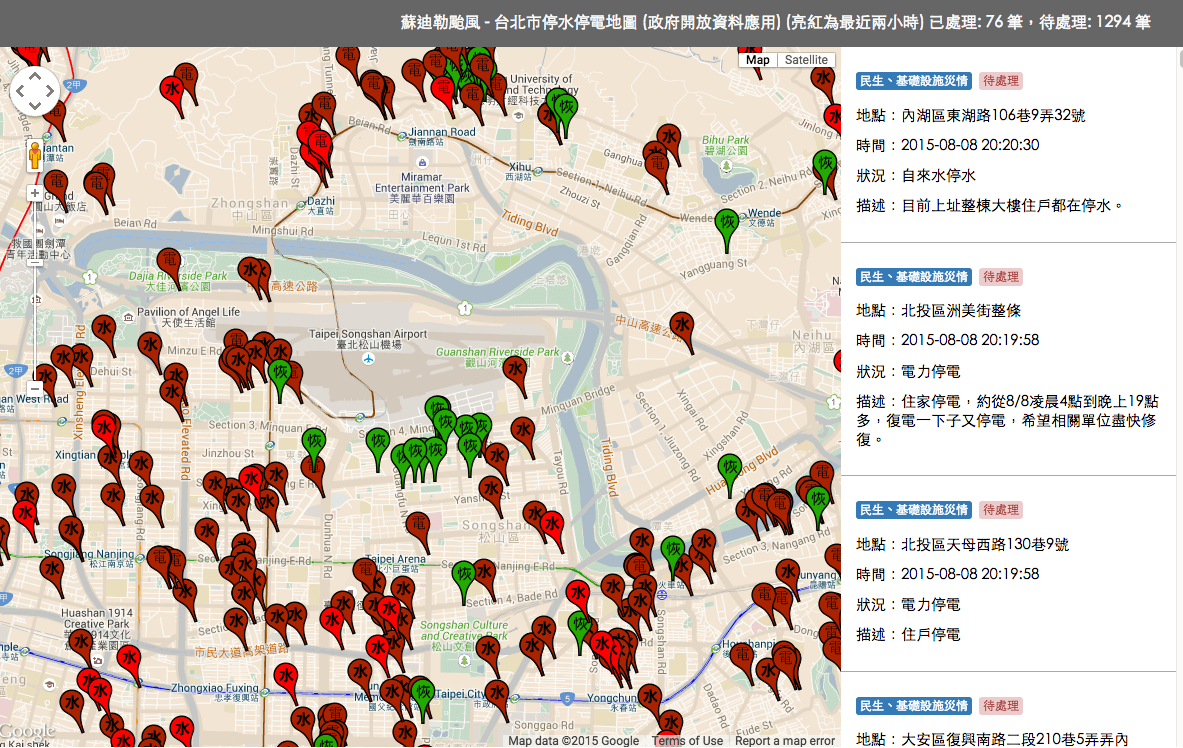
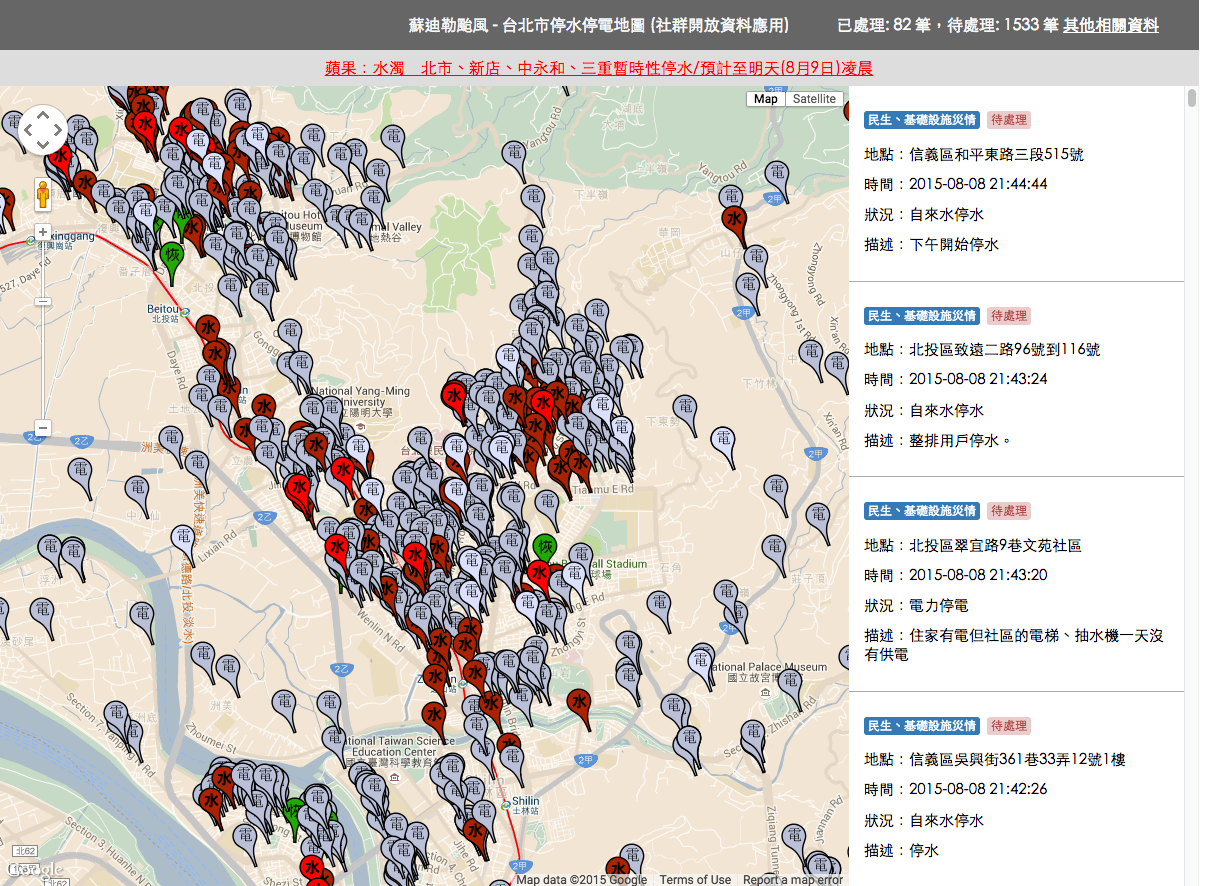
apply new color and ogimage

diff --git a/power-water.html b/power-water.html
@@ -85,16 +85,33 @@ function initMap() {
     }else{
       var time = new Date(data.CaseTime[0]);
       var diff = now.getTime() - time.getTime() ;
-      if( diff > 1000*60*60 *2 ){
-        pinColor = 'AA2200';
-        zindex = 4;
-      }else if( diff > 1000*60*60 *4 ){
-        pinColor = '664400';
-        zindex = 3;
-      }else if( diff > 1000*60*60 *6 ){
-        pinColor = '336600';
-        zindex = 2;
+
+      if( data.Name[0] == "電力停電"){
+        pinColor = 'DBE0FF' ;
+        if( diff > 1000*60*60 *2 ){
+          pinColor = 'BAC0D8';
+          zindex = 4;
+        }else if( diff > 1000*60*60 *4 ){
+          pinColor = '888AAA';
+          zindex = 3;
+        }else if( diff > 1000*60*60 *6 ){
+          pinColor = '6A6B84';
+          zindex = 2;
+        }
+      } else if(data.Name[0] == "自來水停水"){
+        pinColor = 'FF0000' ;
+        if( diff > 1000*60*60 *2 ){
+          pinColor = 'AA2200';
+          zindex = 4;
+        }else if( diff > 1000*60*60 *4 ){
+          pinColor = '664400';
+          zindex = 3;
+        }else if( diff > 1000*60*60 *6 ){
+          pinColor = '336600';
+          zindex = 2;
+        }
       }
+
       
     }
 
